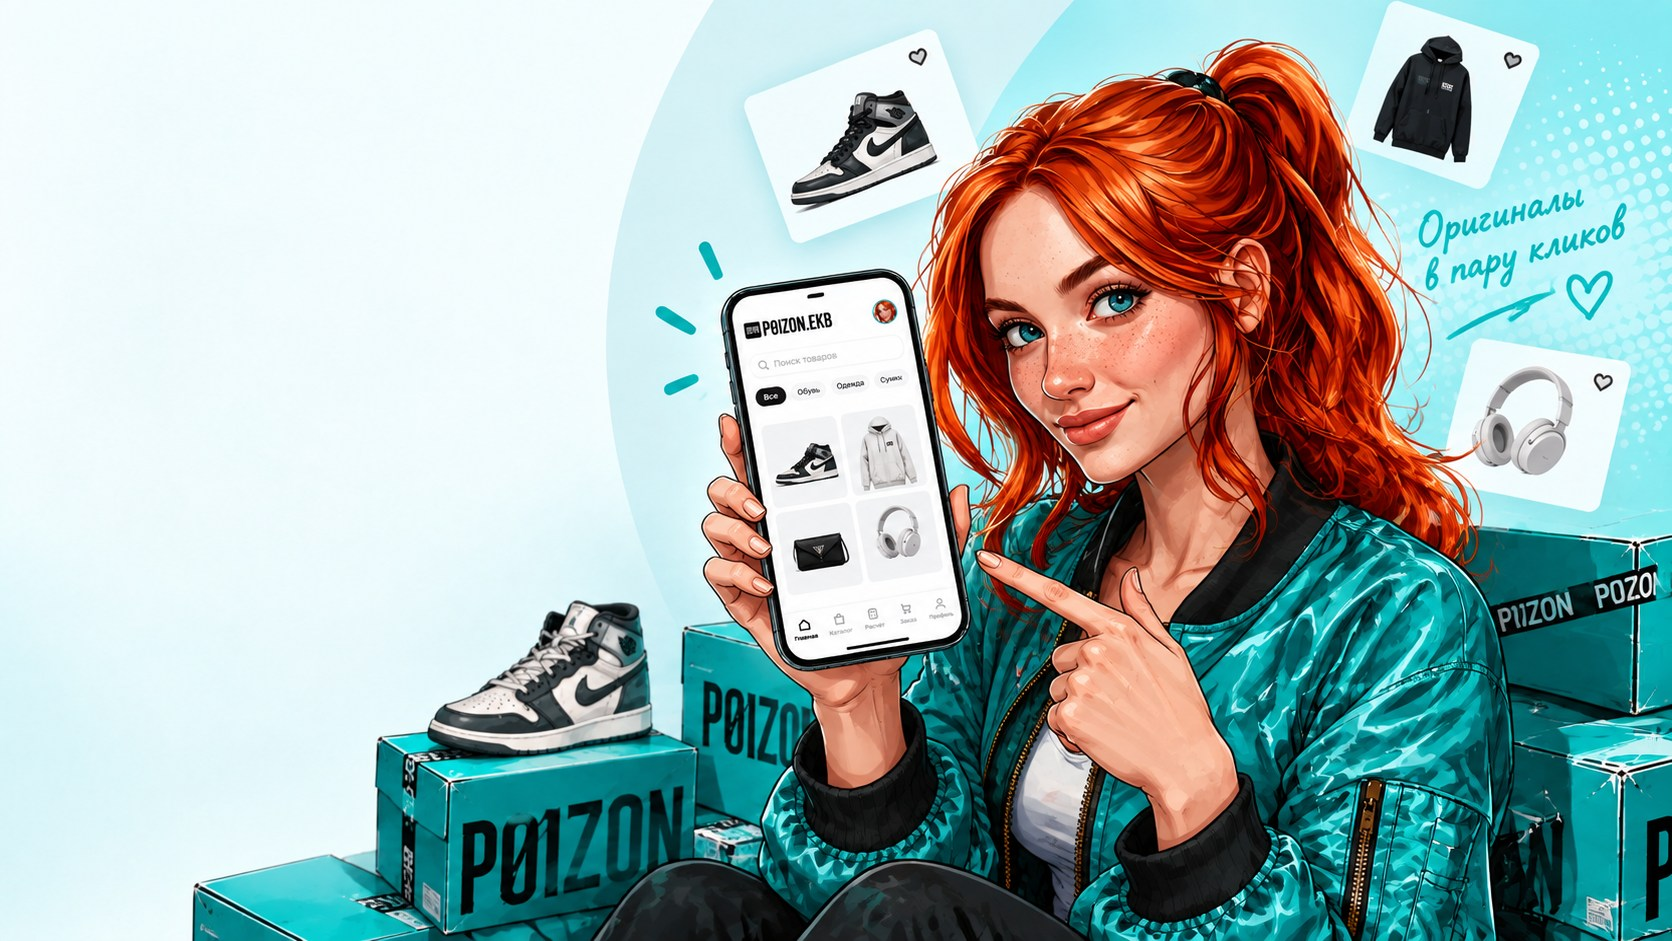
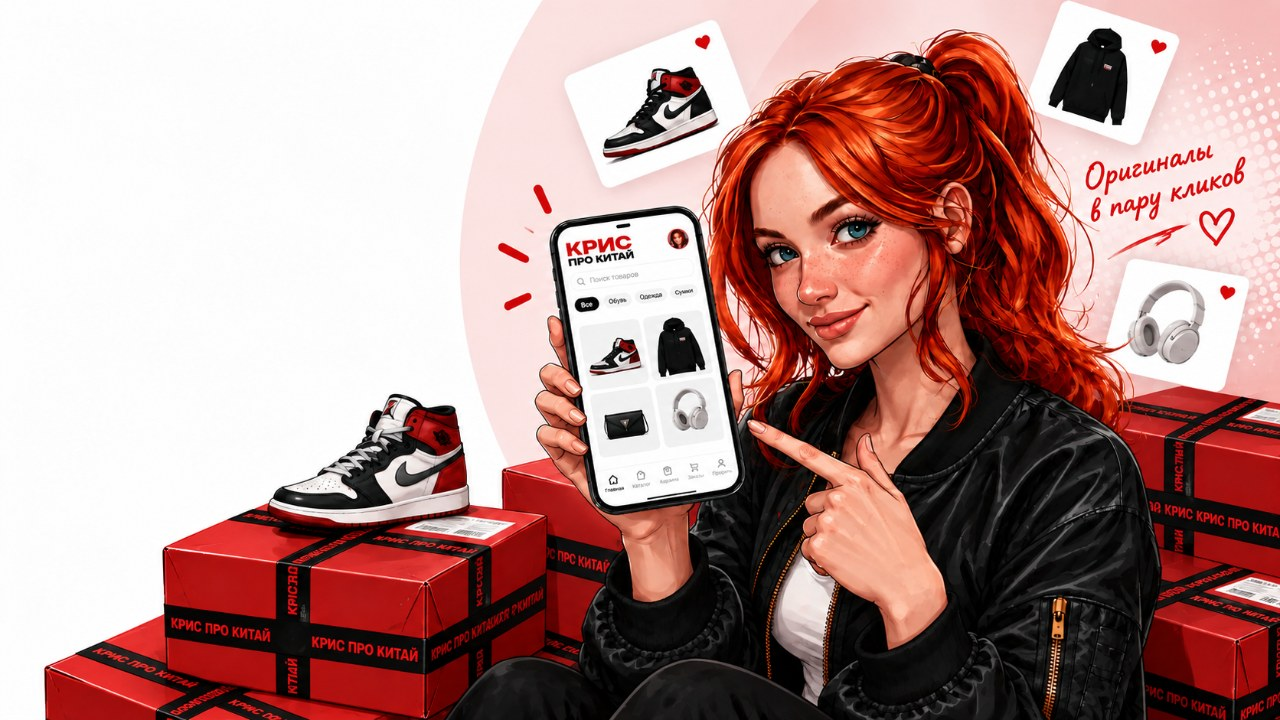
Новая приветственная картинка бота

diff --git a/index.html b/index.html
@@ -9,7 +9,7 @@
 <meta property="og:type" content="website">
 <meta property="og:title" content="POIZON.EKB — оригиналы с Poizon под заказ">
 <meta property="og:description" content="Каталог с ценой под каждый размер. Трек и этапы посылки в Telegram.">
-<meta property="og:image" content="https://krissershh-png.github.io/poizonekb/img/bot-welcome.jpg">
+<meta property="og:image" content="https://krissershh-png.github.io/poizonekb/img/bot-welcome.jpg?v=2">
 <link rel="icon" href="img/mascot-round.png">
 <link rel="preconnect" href="https://fonts.googleapis.com">
 <link rel="stylesheet" href="https://fonts.googleapis.com/css2?family=Unbounded:wght@700;800;900&family=Golos+Text:wght@400;500;600;700;800&family=Caveat:wght@700&display=swap">
